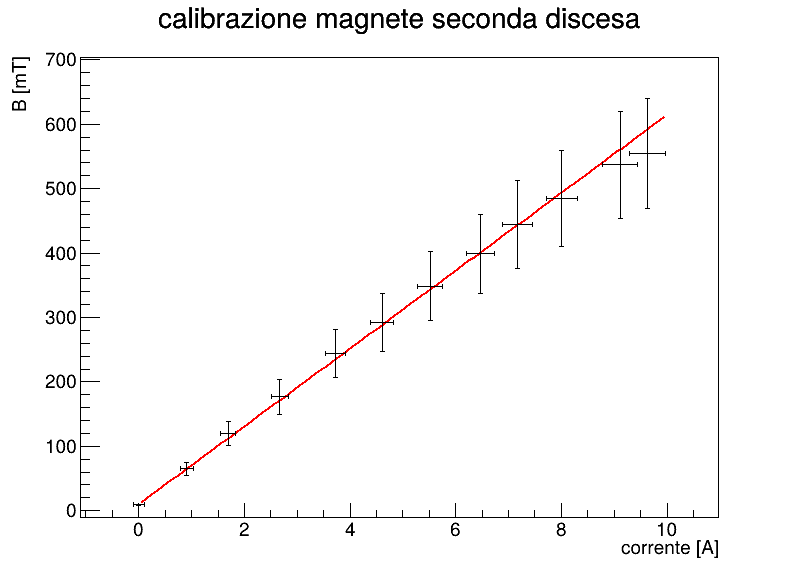
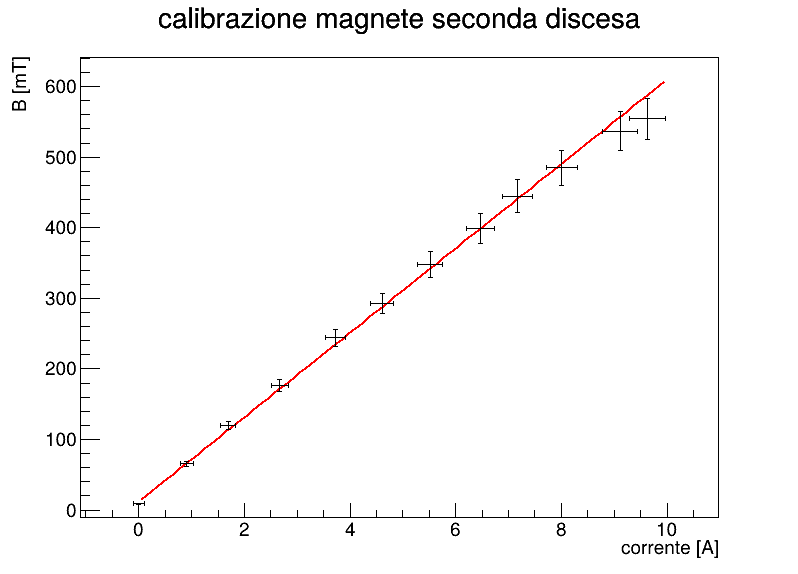
rette calibrazione

diff --git a/LAB_struttura/calibrazione_magnete_seconda_discesa_2.C b/LAB_struttura/calibrazione_magnete_seconda_discesa_2.C
@@ -1,0 +1,97 @@
+ #include<iostream>
+#include "TGraphErrors.h"
+#include "TCanvas.h"
+#include<vector>
+#include "TF1.h"
+
+using namespace std;
+
+//PRIMA SALITA
+
+void calibrazione_magnete_seconda_discesa_2(){
+    vector<double> corrente={
+      9.63,
+        9.11,
+        8.01,
+        7.17,
+        6.47,
+        5.52,
+        4.61,
+        3.72,
+        2.67,
+        1.69,
+        0.91,
+        0,
+    };
+    vector<double> B={
+       
+       554.5,
+        537,
+        484.9,
+        444.7,
+        399,
+        348.6,
+        292.6,
+        243.8,
+        176.7,
+        120,
+        65.4,
+        8.9,
+       
+       
+       
+       
+    };
+    //
+    //errori
+    vector<double> err_corrente={
+        0.34075,
+        0.32775,
+        0.30025,
+        0.27925,
+        0.26175,
+        0.238,
+        0.21525,
+        0.193,
+        0.16675,
+        0.14225,
+        0.12275,
+        0.1,
+    };
+    vector<double> err_B={
+        28.725,
+        27.85,
+        25.245,
+        23.235,
+        20.95,
+        18.43,
+        14.73,
+        12.29,
+        8.935,
+        6.1,
+        3.37,
+        0.545,
+            };
+
+    //
+    int len= corrente.size();
+    TGraphErrors* gr1= new TGraphErrors(len, corrente.data(), B.data(), err_corrente.data(), err_B.data());
+    //
+    TCanvas* c1= new TCanvas("c1", "rampe calibrazione", 800, 600);
+
+    TF1* fit= new TF1("fit", "[0]+[1]*x", 0, 10);
+
+
+
+    gr1->Fit("fit", "R");
+     gr1->GetXaxis()->SetTitle("corrente [A]");
+    gr1->GetYaxis()->SetTitle("B [mT]");
+     gr1->SetTitle("calibrazione magnete seconda discesa");
+     gr1->SetMinimum(-10);
+    gr1->Draw("AP.");
+    c1->Print("seconda_discesa.png", "png");
+    cout<<"il pvalue è "<< fit->GetProb() <<endl;
+
+
+
+}

diff --git a/LAB_struttura/calibrazione_magnete_prima_discesa_2.C b/LAB_struttura/calibrazione_magnete_prima_discesa_2.C
@@ -1,0 +1,92 @@
+#include<iostream>
+#include "TGraphErrors.h"
+#include "TCanvas.h"
+#include<vector>
+#include "TF1.h"
+
+using namespace std;
+
+
+
+void calibrazione_magnete_prima_discesa_2(){
+    vector<double> corrente={
+        0,
+        9.93,
+        8.96,
+        8.11,
+        7.27,
+        6.33,
+        5.44,
+        4.6,
+        3.59,
+        2.7,
+        1.72,
+        0.94,
+    };
+    vector<double> B={
+        8.8,
+        565.8,
+        529.7,
+        487.9,
+        441,
+        394.8,
+        343.6,
+        293.4,
+        232.2,
+        180.5,
+        119.5,
+        70.8,
+    };
+    //
+    //errori
+    vector<double> err_corrente={
+        0.1,
+        0.34825,
+        0.324,
+        0.30275,
+        0.28175,
+        0.25825,
+        0.236,
+        0.215,
+        0.18975,
+        0.1675,
+        0.143,
+        0.1235,
+    };
+    vector<double> err_B={
+        0.54,
+        29.29,
+        27.485,
+        25.395,
+        23.05,
+        20.74,
+        18.18,
+        14.77,
+        11.71,
+        9.125,
+        6.075,
+        3.64,
+            };
+
+    //
+    int len= corrente.size();
+    TGraphErrors* gr1= new TGraphErrors(len, corrente.data(), B.data(), err_corrente.data(), err_B.data());
+    //
+    TCanvas* c1= new TCanvas("c1", "rampe calibrazione", 800, 600);
+
+    TF1* fit= new TF1("fit", "[0]+[1]*x", 0, 10);
+
+
+   // gr1->SetMarkerStyle(20);
+   gr1->Fit("fit", "R");
+    gr1->SetMinimum(-10);
+    gr1->GetXaxis()->SetTitle("corrente [A]");
+    gr1->GetYaxis()->SetTitle("B [mT]");
+     gr1->SetTitle("calibrazione magnete prima discesa");
+    gr1->Draw("AP.");
+    c1->Print("prima_discesa.png", "png");
+    cout<<"il pvalue è "<< fit->GetProb() <<endl;
+
+
+
+}

diff --git a/LAB_struttura/calibrazione_magnete_seconda_salita_2.C b/LAB_struttura/calibrazione_magnete_seconda_salita_2.C
@@ -1,0 +1,92 @@
+ #include<iostream>
+#include "TGraphErrors.h"
+#include "TCanvas.h"
+#include<vector>
+#include "TF1.h"
+
+using namespace std;
+
+//PRIMA SALITA
+
+void calibrazione_magnete_seconda_salita_2(){
+    vector<double> corrente={
+        0,
+        0.85,
+        1.86,
+        2.76,
+        3.46,
+        4.55,
+        5.3,
+        6.5,
+        7.46,
+        8.2,
+        9.09,
+        9.88,
+    };
+    vector<double> B={
+       8.7,
+        61.2,
+        121.7,
+        176.8,
+        221,
+        285.5,
+        334.5,
+        399.3,
+        454.3,
+        494.5,
+        532.4,
+        564.9,
+    };
+    //
+    //errori
+    vector<double> err_corrente={
+      0.1,
+        0.12125,
+        0.1465,
+        0.169,
+        0.1865,
+        0.21375,
+        0.2325,
+        0.2625,
+        0.2865,
+        0.305,
+        0.32725,
+        0.347,  
+    };
+    vector<double> err_B={
+        0.535,
+        3.16,
+        6.185,
+        8.94,
+        11.15,
+        14.375,
+        17.725,
+        20.965,
+        23.715,
+        25.725,
+        27.62,
+        29.245,
+            };
+
+    //
+    int len= corrente.size();
+    TGraphErrors* gr1= new TGraphErrors(len, corrente.data(), B.data(), err_corrente.data(), err_B.data());
+    //
+    TCanvas* c1= new TCanvas("c1", "rampe calibrazione", 800, 600);
+
+    TF1* fit= new TF1("fit", "[0]+[1]*x", 0, 10);
+
+
+
+    gr1->Fit("fit", "R");
+     gr1->GetXaxis()->SetTitle("corrente [A]");
+    gr1->GetYaxis()->SetTitle("B [mT]");
+     gr1->SetTitle("calibrazione magnete seconda salita");
+     gr1->SetMinimum(-10);
+    gr1->Draw("AP.");
+    c1->Print("seconda_salita.png", "png");
+    cout<<"il pvalue è "<< fit->GetProb() <<endl;
+
+
+
+}

diff --git a/LAB_struttura/calibrazione_magnete_2.C b/LAB_struttura/calibrazione_magnete_2.C
@@ -1,0 +1,92 @@
+ #include<iostream>
+#include "TGraphErrors.h"
+#include "TCanvas.h"
+#include<vector>
+#include "TF1.h"
+
+using namespace std;
+
+//PRIMA SALITA
+
+void calibrazione_magnete_2(){
+    vector<double> corrente={
+        0,
+        0.91,
+        1.85,
+        2.8,
+        3.63,
+        4.5,
+        5.35,
+        6.33,
+        7.2,
+        8.15,
+        9.02,
+        9.91
+    };
+    vector<double> B={
+        8.7,
+        62.91,
+        121.42,
+        178.03,
+        227.96,
+        279.88,
+        336.7,
+        392.8,
+        439.8,
+        491.4,
+        529.5,
+        567.4,
+    };
+    //
+    //errori
+    vector<double> err_corrente={
+        0.1,
+        0.12275,
+        0.14625,
+        0.17,
+        0.19075,
+        0.2125,
+        0.23375,
+        0.25825,
+        0.28,
+        0.30375,
+        0.3255,
+        0.34775,
+    };
+    vector<double> err_B={
+        0.54,
+        3.2455,
+        6.171,
+        9.0015,
+        11.498,
+        14.094,
+        17.835,
+        20.64,
+        22.99,
+        25.57,
+        27.475,
+        29.37,
+     };
+
+    //
+    int len= corrente.size();
+    TGraphErrors* gr1= new TGraphErrors(len, corrente.data(), B.data(), err_corrente.data(), err_B.data());
+    //
+    TCanvas* c1= new TCanvas("c1", "rampe calibrazione", 800, 600);
+
+    TF1* fit= new TF1("fit", "[0]+[1]*x", 0, 10);
+
+
+
+    gr1->Fit("fit", "R");
+     gr1->GetXaxis()->SetTitle("corrente [A]");
+    gr1->GetYaxis()->SetTitle("B [mT]");
+     gr1->SetMinimum(-10);
+     gr1->SetTitle("calibrazione magnete prima salita");
+    gr1->Draw("AP.");
+    c1->Print("prima_salita.png", "png");
+    cout<<"il pvalue è "<< fit->GetProb() <<endl;
+
+
+
+}
